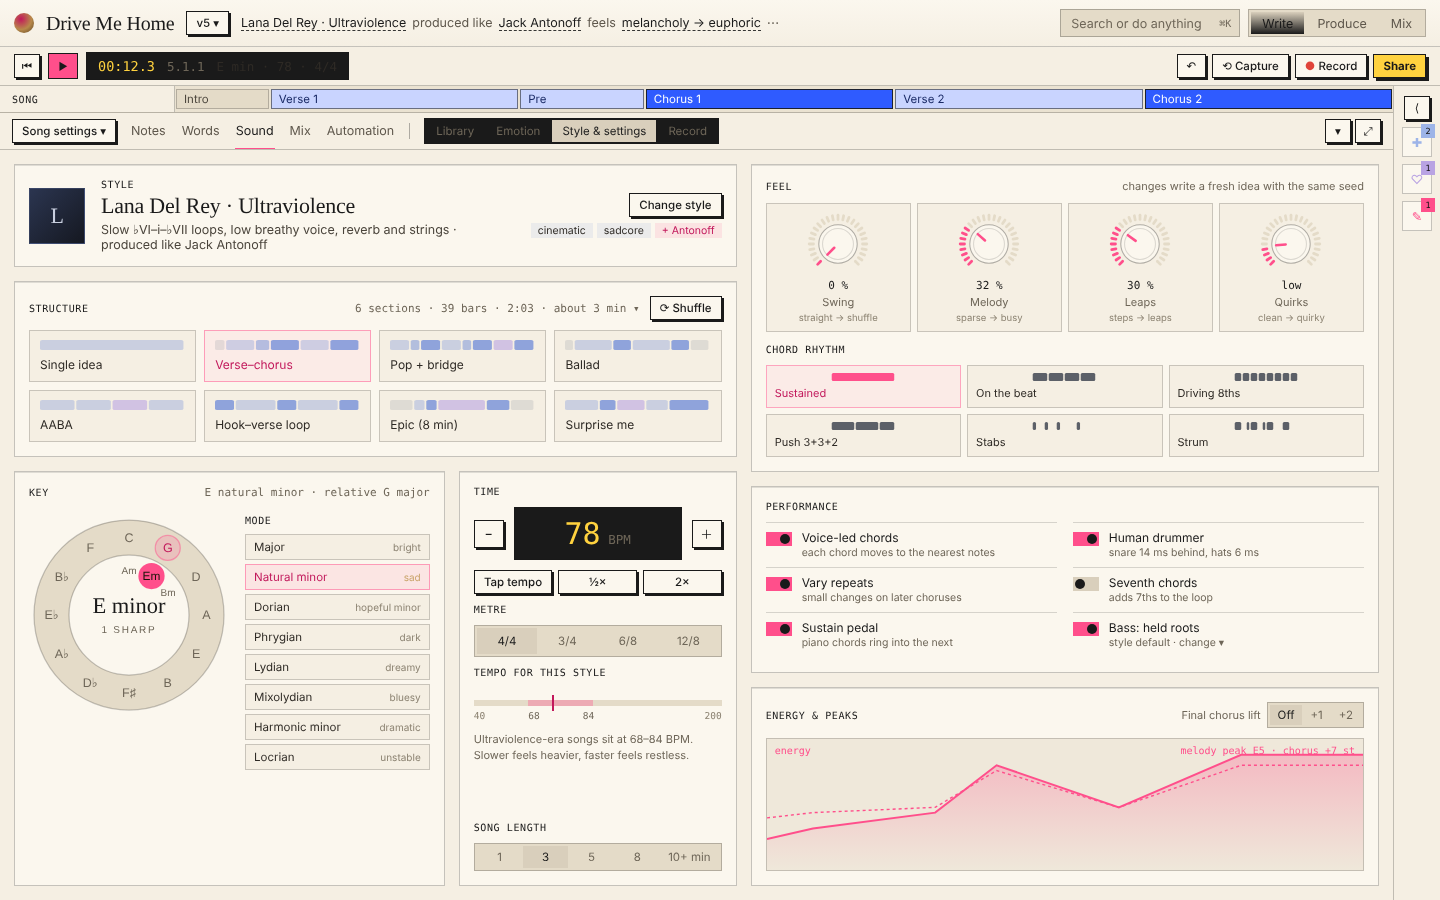
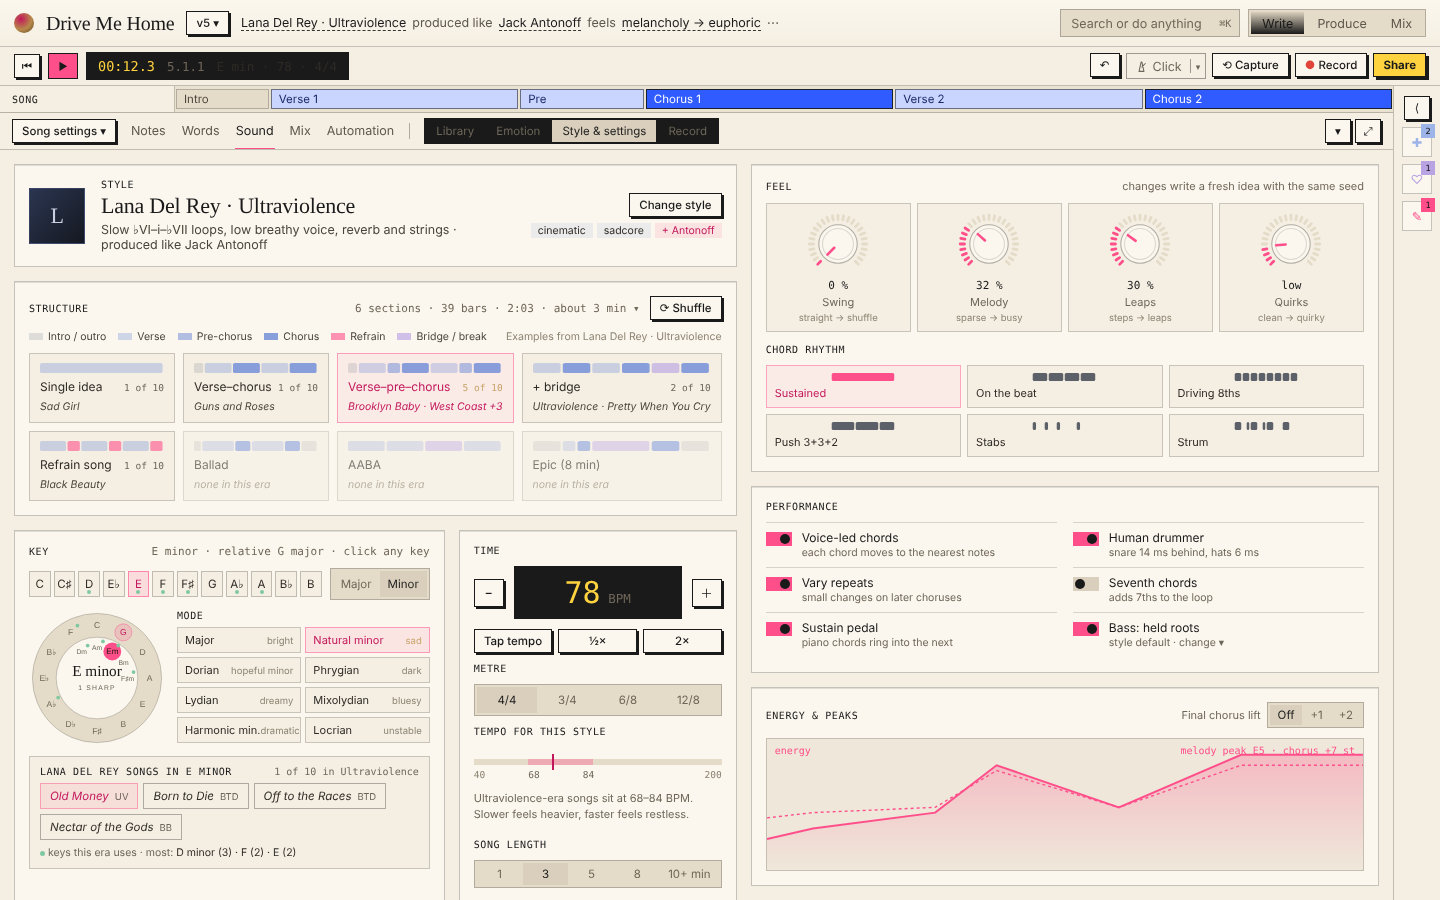
Design: key picker in Song settings (tonic row, major/minor, clickable circle) with the artist's songs in that key
Claude-Session: https://claude.ai/code/session_01Gwi5mznyCGAVwjhLcrp4R8

Changed region(s): [[0.0, 0.3733, 0.5, 0.9956], [0.75, 0.0622, 1.0, 0.0933]]

diff --git a/docs/design/panels/reference-Style.dc.html b/docs/design/panels/reference-Style.dc.html
@@ -65,13 +65,19 @@ button{cursor:pointer;white-space:nowrap}
     </div>
     <div style="display: grid; grid-template-columns: 1.55fr 1fr; gap: 14px; flex: 1; min-height: 0">
       <div style="padding: 14px; border-radius: 12px; background: linear-gradient(#121316, #0F1013); border: 1px solid rgba(255,255,255,.06); box-shadow: inset 0 1px 0 rgba(255,255,255,.03); display: flex; flex-direction: column; gap: 10px; min-width: 0">
-        <div style="display: flex; justify-content: space-between; align-items: baseline"><span class="sm">Key</span><span class="mono" style="font-size: 11px; color: #8A8F98">E natural minor · relative G major</span></div>
-        <div style="display: flex; gap: 16px; align-items: flex-start; flex: 1; padding-top: 6px">
-          <svg viewBox="0 0 160 160" width="200" height="200" style="flex-shrink: 0" aria-label="Circle of fifths, E minor selected"><circle cx="80" cy="80" r="76" fill="#0C0D10" stroke="rgba(255,255,255,.06)"></circle><circle cx="80" cy="80" r="48" fill="#121316" stroke="rgba(255,255,255,.06)"></circle><sc-for list="{{cof}}" as="k" hint-placeholder-count="12"><circle cx="{{k.x}}" cy="{{k.y}}" r="{{k.r}}" fill="{{k.bg}}" stroke="{{k.line}}"></circle><text x="{{k.x}}" y="{{k.ty}}" text-anchor="middle" font-size="{{k.fs}}" fill="{{k.ink}}" font-family="Inter Tight, sans-serif">{{k.n}}</text></sc-for><text x="80" y="78" text-anchor="middle" font-size="18" fill="#EDEBE6" font-family="Instrument Serif, serif">E minor</text><text x="80" y="94" text-anchor="middle" font-size="8" letter-spacing="1.4" fill="#6B7079" font-family="Inter Tight, sans-serif">1 SHARP</text></svg>
-          <div style="flex: 1; display: flex; flex-direction: column; gap: 8px; min-width: 0">
+        <div style="display: flex; justify-content: space-between; align-items: baseline"><span class="sm">Key</span><span class="mono" style="font-size: 11px; color: #8A8F98">E minor · relative G major · click any key</span></div>
+        <div style="display: flex; gap: 8px; align-items: center"><div style="flex: 1; display: grid; grid-template-columns: repeat(12, 1fr); gap: 3px"><sc-for list="{{tonics}}" as="t" hint-placeholder-count="12"><button style="height: 26px; padding: 0; border-radius: 6px; border: 1px solid {{t.line}}; background: {{t.bg}}; color: {{t.ink}}; font-size: 11.5px; position: relative">{{t.n}}<span style="position: absolute; left: 50%; bottom: 2px; width: 4px; height: 4px; margin-left: -2px; border-radius: 50%; background: {{t.dot}}"></span></button></sc-for></div><div style="display: flex; padding: 2px; border-radius: 8px; background: #0C0D10; border: 1px solid rgba(255,255,255,.06)"><sc-for list="{{mm}}" as="o" hint-placeholder-count="4"><button style="flex: 1; height: 26px; padding: 0 8px; border-radius: 6px; border: 0; background: {{o.bg}}; color: {{o.ink}}; font-size: 11.5px; white-space: nowrap">{{o.n}}</button></sc-for></div></div>
+        <div style="display: flex; gap: 12px; align-items: flex-start">
+          <svg viewBox="0 0 160 160" width="136" height="136" style="flex-shrink: 0" aria-label="Circle of fifths, E minor selected"><circle cx="80" cy="80" r="76" fill="#0C0D10" stroke="rgba(255,255,255,.06)"></circle><circle cx="80" cy="80" r="48" fill="#121316" stroke="rgba(255,255,255,.06)"></circle><sc-for list="{{cof}}" as="k" hint-placeholder-count="12"><circle cx="{{k.x}}" cy="{{k.y}}" r="{{k.r}}" fill="{{k.bg}}" stroke="{{k.line}}"></circle><circle cx="{{k.dx}}" cy="{{k.dy}}" r="{{k.dr}}" fill="#7FC9A2"></circle><text x="{{k.x}}" y="{{k.ty}}" text-anchor="middle" font-size="{{k.fs}}" fill="{{k.ink}}" font-family="Inter Tight, sans-serif">{{k.n}}</text></sc-for><text x="80" y="78" text-anchor="middle" font-size="18" fill="#EDEBE6" font-family="Instrument Serif, serif">E minor</text><text x="80" y="94" text-anchor="middle" font-size="8" letter-spacing="1.4" fill="#6B7079" font-family="Inter Tight, sans-serif">1 SHARP</text></svg>
+          <div style="flex: 1; display: flex; flex-direction: column; gap: 6px; min-width: 0">
             <span class="sm">Mode</span>
-            <div style="display: grid; grid-template-columns: 1fr; gap: 4px"><sc-for list="{{modes}}" as="m" hint-placeholder-count="8"><button style="height: 26px; padding: 0 8px; border-radius: 6px; border: 1px solid {{m.line}}; background: {{m.bg}}; color: {{m.ink}}; font-size: 11.5px; text-align: left; display: flex; justify-content: space-between; align-items: center">{{m.n}}<span style="color: {{m.fc}}; font-size: 10px">{{m.f}}</span></button></sc-for></div>
+            <div style="display: grid; grid-template-columns: 1fr 1fr; gap: 4px"><sc-for list="{{modes}}" as="m" hint-placeholder-count="8"><button style="height: 26px; padding: 0 7px; border-radius: 6px; border: 1px solid {{m.line}}; background: {{m.bg}}; color: {{m.ink}}; font-size: 11px; text-align: left; display: flex; justify-content: space-between; align-items: center; white-space: nowrap; overflow: hidden">{{m.n}}<span style="color: {{m.fc}}; font-size: 9.5px">{{m.f}}</span></button></sc-for></div>
           </div>
+        </div>
+        <div style="padding: 9px 10px; border-radius: 9px; background: #0E0F12; border: 1px solid rgba(255,255,255,.05); display: flex; flex-direction: column; gap: 6px">
+          <span style="display: flex; justify-content: space-between; align-items: baseline"><span class="sm">Lana Del Rey songs in E minor</span><span class="mono" style="font-size: 10px; color: #8A8F98">1 of 10 in Ultraviolence</span></span>
+          <div style="display: flex; flex-wrap: wrap; gap: 5px"><sc-for list="{{inKey}}" as="k" hint-placeholder-count="4"><span style="display: flex; align-items: center; gap: 6px; height: 24px; padding: 0 9px; border-radius: 999px; background: {{k.bg}}; border: 1px solid {{k.line}}; font-size: 11.5px; color: {{k.ink}}"><span style="font-style: italic">{{k.n}}</span><span style="font-size: 9.5px; color: #6B7079">{{k.e}}</span></span></sc-for></div>
+          <span style="color: #6B7079; font-size: 10.5px"><span style="display: inline-block; width: 5px; height: 5px; border-radius: 50%; background: #7FC9A2; vertical-align: middle"></span> keys this era uses · most: <span style="color: #C9C5BC">D minor (3) · F (2) · E (2)</span></span>
         </div>
       </div>
       <div style="padding: 14px; border-radius: 12px; background: linear-gradient(#121316, #0F1013); border: 1px solid rgba(255,255,255,.06); box-shadow: inset 0 1px 0 rgba(255,255,255,.03); display: flex; flex-direction: column; gap: 10px; min-width: 0">
@@ -82,7 +88,7 @@ button{cursor:pointer;white-space:nowrap}
         <span class="sm">Tempo for this style</span>
         <div style="position: relative; height: 34px"><span style="position: absolute; left: 0; right: 0; top: 12px; height: 6px; border-radius: 3px; background: #0C0D10"></span><span style="position: absolute; left: 22%; width: 26%; top: 12px; height: 6px; border-radius: 3px; background: rgba(217,179,122,.35)"></span><span style="position: absolute; left: calc(32% - 1px); top: 7px; width: 2px; height: 16px; background: #F1D6A6"></span><span class="mono" style="position: absolute; left: 22%; top: 22px; font-size: 9.5px; color: #8A8F98">68</span><span class="mono" style="position: absolute; left: 44%; top: 22px; font-size: 9.5px; color: #8A8F98">84</span><span class="mono" style="position: absolute; left: 0; top: 22px; font-size: 9.5px; color: #555A62">40</span><span class="mono" style="position: absolute; right: 0; top: 22px; font-size: 9.5px; color: #555A62">200</span></div>
         <span style="color: #6B7079; font-size: 11px; line-height: 1.45">Ultraviolence-era songs sit at 68–84 BPM. Slower feels heavier, faster feels restless.</span>
-        <span class="sm" style="margin-top: auto">Song length</span><div style="display: flex; padding: 2px; border-radius: 8px; background: #0C0D10; border: 1px solid rgba(255,255,255,.06)"><sc-for list="{{lens}}" as="o" hint-placeholder-count="4"><button style="flex: 1; height: 22px; padding: 0 8px; border-radius: 6px; border: 0; background: {{o.bg}}; color: {{o.ink}}; font-size: 11.5px; white-space: nowrap">{{o.n}}</button></sc-for></div>
+        <span class="sm" style="margin-top: 6px">Song length</span><div style="display: flex; padding: 2px; border-radius: 8px; background: #0C0D10; border: 1px solid rgba(255,255,255,.06)"><sc-for list="{{lens}}" as="o" hint-placeholder-count="4"><button style="flex: 1; height: 22px; padding: 0 8px; border-radius: 6px; border: 0; background: {{o.bg}}; color: {{o.ink}}; font-size: 11.5px; white-space: nowrap">{{o.n}}</button></sc-for></div>
       </div>
     </div>
   </div>
@@ -138,8 +144,11 @@ function segOf(list, on) { return list.map(function (n) { var o = n === on; retu
     var forms = [['Single idea', [['v', 8]], 0, ['Sad Girl']], ['Verse–chorus', [['e', 3], ['v', 8], ['c', 8], ['v', 8], ['c', 8]], 0, ['Guns and Roses']], ['Verse–pre–chorus', [['e', 3], ['v', 8], ['p', 4], ['c', 8], ['v', 8], ['p', 4], ['c', 8]], 1, ['Brooklyn Baby', 'West Coast', 'Shades of Cool', 'Cruel World', 'Old Money']], ['+ bridge', [['v', 8], ['c', 8], ['v', 8], ['c', 8], ['b', 8], ['c', 8]], 0, ['Ultraviolence', 'Pretty When You Cry']], ['Refrain song', [['v', 8], ['r', 4], ['v', 8], ['r', 4], ['v', 8], ['r', 4]], 0, ['Black Beauty']], ['Ballad', [['e', 4], ['v', 16], ['c', 8], ['v', 16], ['c', 8], ['e', 8]], 0, []], ['AABA', [['v', 8], ['v', 8], ['b', 8], ['v', 8]], 0, []], ['Epic (8 min)', [['e', 16], ['v', 8], ['c', 8], ['b', 32], ['c', 16], ['e', 16]], 0, []]].map(function (f) { var on = !!f[2], n = f[3].length; return { n: f[0], blocks: blocks(f[1]), songs: n ? f[3].slice(0, 2).join(' · ') + (n > 2 ? ' +' + (n - 2) : '') : 'none in this era', count: n ? n + ' of 10' : '', cc: on ? '#C9A46A' : '#6B7079', ex: n ? (on ? '#F1D6A6' : '#9BA0A8') : '#555A62', op: n ? 1 : .6, bg: on ? 'rgba(217,179,122,.07)' : '#0E0F12', line: on ? 'rgba(217,179,122,.5)' : 'rgba(255,255,255,.05)', ink: on ? '#F1D6A6' : '#C9C5BC' }; });
     var legend = [['Intro / outro', 'e'], ['Verse', 'v'], ['Pre-chorus', 'p'], ['Chorus', 'c'], ['Refrain', 'r'], ['Bridge / break', 'b']].map(function (l) { return { n: l[0], c: SC[l[1]] }; });
     var circle = ['C', 'G', 'D', 'A', 'E', 'B', 'F♯', 'D♭', 'A♭', 'E♭', 'B♭', 'F'], inner = ['Am', 'Em', 'Bm', 'F♯m', 'C♯m', 'G♯m', 'D♯m', 'B♭m', 'Fm', 'Cm', 'Gm', 'Dm'];
-    var cof = []; circle.forEach(function (n, i) { var a = (i * 30 - 90) * Math.PI / 180; cof.push({ n: n, x: (80 + 62 * Math.cos(a)).toFixed(1), y: (80 + 62 * Math.sin(a)).toFixed(1), ty: (83.5 + 62 * Math.sin(a)).toFixed(1), r: 10, fs: 10, bg: n === 'G' ? 'rgba(217,179,122,.18)' : 'transparent', line: n === 'G' ? 'rgba(217,179,122,.5)' : 'transparent', ink: n === 'G' ? '#F1D6A6' : '#8A8F98' }); if (i <= 2) cof.push({ n: inner[i], x: (80 + 36 * Math.cos(a)).toFixed(1), y: (80 + 36 * Math.sin(a)).toFixed(1), ty: (83 + 36 * Math.sin(a)).toFixed(1), r: i === 1 ? 10.5 : 0, fs: i === 1 ? 9.5 : 8, bg: i === 1 ? '#D9B37A' : 'transparent', line: 'transparent', ink: i === 1 ? '#1B1408' : '#8A8F98' }); });
-    var modes = [['Major', 'bright'], ['Natural minor', 'sad', 1], ['Dorian', 'hopeful minor'], ['Phrygian', 'dark'], ['Lydian', 'dreamy'], ['Mixolydian', 'bluesy'], ['Harmonic minor', 'dramatic'], ['Locrian', 'unstable']].map(function (m) { var on = !!m[2]; return { n: m[0], f: m[1], bg: on ? 'rgba(217,179,122,.1)' : '#0E0F12', line: on ? 'rgba(217,179,122,.5)' : 'rgba(255,255,255,.05)', ink: on ? '#F1D6A6' : '#C9C5BC', fc: on ? '#C9A46A' : '#555A62' }; });
+    var cof = []; circle.forEach(function (n, i) { var a = (i * 30 - 90) * Math.PI / 180; var useK = { 'F': 1, 'A♭': 1 }; cof.push({ dx: (80 + 62 * Math.cos(a) + 8).toFixed(1), dy: (80 + 62 * Math.sin(a) - 8).toFixed(1), dr: useK[n] ? 2.2 : 0, n: n, x: (80 + 62 * Math.cos(a)).toFixed(1), y: (80 + 62 * Math.sin(a)).toFixed(1), ty: (83.5 + 62 * Math.sin(a)).toFixed(1), r: 10, fs: 10, bg: n === 'G' ? 'rgba(217,179,122,.18)' : 'transparent', line: n === 'G' ? 'rgba(217,179,122,.5)' : 'transparent', ink: n === 'G' ? '#F1D6A6' : '#8A8F98' }); var useM = { 'Dm': 1, 'Em': 1, 'Am': 1, 'F♯m': 1 }; if (i <= 3 || useM[inner[i]]) cof.push({ dx: (80 + 36 * Math.cos(a) + 7).toFixed(1), dy: (80 + 36 * Math.sin(a) - 7).toFixed(1), dr: useM[inner[i]] ? 2.2 : 0, n: inner[i], x: (80 + 36 * Math.cos(a)).toFixed(1), y: (80 + 36 * Math.sin(a)).toFixed(1), ty: (83 + 36 * Math.sin(a)).toFixed(1), r: i === 1 ? 10.5 : 0, fs: i === 1 ? 9.5 : 8, bg: i === 1 ? '#D9B37A' : 'transparent', line: 'transparent', ink: i === 1 ? '#1B1408' : '#8A8F98' }); });
+    var tonics = ['C', 'C♯', 'D', 'E♭', 'E', 'F', 'F♯', 'G', 'A♭', 'A', 'B♭', 'B'].map(function (n) { var on = n === 'E', used = { 'D': 1, 'F': 1, 'E': 1, 'A': 1, 'A♭': 1, 'F♯': 1 }[n]; return { n: n, bg: on ? 'rgba(217,179,122,.16)' : '#0E0F12', line: on ? 'rgba(217,179,122,.6)' : 'rgba(255,255,255,.06)', ink: on ? '#F1D6A6' : '#C9C5BC', dot: used ? '#7FC9A2' : 'transparent' }; });
+    var mm = segOf(['Major', 'Minor'], 'Minor');
+    var inKey = [['Old Money', 'UV', 1], ['Born to Die', 'BTD', 0], ['Off to the Races', 'BTD', 0], ['Nectar of the Gods', 'BB', 0]].map(function (k) { var on = !!k[2]; return { n: k[0], e: k[1], bg: on ? 'rgba(217,179,122,.1)' : 'transparent', line: on ? 'rgba(217,179,122,.45)' : 'rgba(255,255,255,.08)', ink: on ? '#F1D6A6' : '#C9C5BC' }; });
+    var modes = [['Major', 'bright'], ['Natural minor', 'sad', 1], ['Dorian', 'hopeful minor'], ['Phrygian', 'dark'], ['Lydian', 'dreamy'], ['Mixolydian', 'bluesy'], ['Harmonic min.', 'dramatic'], ['Locrian', 'unstable']].map(function (m) { var on = !!m[2]; return { n: m[0], f: m[1], bg: on ? 'rgba(217,179,122,.1)' : '#0E0F12', line: on ? 'rgba(217,179,122,.5)' : 'rgba(255,255,255,.05)', ink: on ? '#F1D6A6' : '#C9C5BC', fc: on ? '#C9A46A' : '#555A62' }; });
     var meters = segOf(['4/4', '3/4', '6/8', '12/8'], '4/4');
     var knobs = [['Swing', 0, 'straight → shuffle', '0 %'], ['Melody', .32, 'sparse → busy', '32 %'], ['Leaps', .3, 'steps → leaps', '30 %'], ['Quirks', .15, 'clean → quirky', 'low']].map(function (k) { var o = knob(k[1], B, 52); o.n = k[0]; o.r = k[2]; o.v = k[3]; return o; });
     function hits(list) { return list.map(function (h) { return { x: h[0] * 8, w: h[1] * 8 - 1.5 }; }); }
@@ -148,7 +157,7 @@ function segOf(list, on) { return list.map(function (n) { var o = n === on; retu
     var lift = segOf(['Off', '+1', '+2'], 'Off'); var lens = segOf(['1', '3', '5', '8', '10+ min'], '3');
     var E = [[0, .2], [3, .3], [11, .45], [15, .9], [23, .5], [31, 1], [39, 1]], P = [[0, .4], [3, .45], [11, .5], [15, .85], [23, .5], [31, .9], [39, .9]];
     function L(a) { return 'M' + a.map(function (p) { return (p[0] / 39 * 1000).toFixed(0) + ' ' + (92 - p[1] * 80).toFixed(1); }).join(' L'); }
-    return { clickBtn: clickBtn, legend: legend, secs: secs, tabs: tabsOf('Sound'), subs: subsOf(['Library', 'Emotion', 'Style & settings', 'Record'], 'Style & settings'), railI: railI, forms: forms, cof: cof, modes: modes, meters: meters, knobs: knobs, rhythms: rhythms, perf: perf, lift: lift, lens: lens, en: L(E), pk: L(P) };
+    return { clickBtn: clickBtn, legend: legend, secs: secs, tabs: tabsOf('Sound'), subs: subsOf(['Library', 'Emotion', 'Style & settings', 'Record'], 'Style & settings'), railI: railI, forms: forms, cof: cof, modes: modes, meters: meters, knobs: knobs, rhythms: rhythms, perf: perf, lift: lift, lens: lens, tonics: tonics, mm: mm, inKey: inKey, en: L(E), pk: L(P) };
   }
 }
 </script>

diff --git a/docs/design/panels/README.md b/docs/design/panels/README.md
@@ -25,9 +25,20 @@ Two columns of cards, no page scroll at 1440×900:
     (the real section order, e.g. `"form": "I V P C V P C B C O"`, with a source). Use `form` when present. `check_style_data.py` checks the
     letters. Ballad, AABA and Epic need `form` or a length to be detected.
   - Example counts follow the selected style tags (a blend shows songs from each, marked by artist).
-- **Key:** a **circle of fifths** (majors outside, the relative minors near the key inside, the current key filled brass, its relative major ringed)
-  with "E minor · 1 sharp" in the middle. Beside it, the **mode** list, each with its feeling (bright, sad, hopeful minor, dark, dreamy, bluesy,
-  dramatic, unstable).
+- **Key** (change it here as well as in the recipe; both are the same setting and one undo step):
+  - A row of 12 tonic buttons (C … B) plus a **Major / Minor** switch for quick changes.
+  - The **circle of fifths** is clickable too: majors outside, relative minors inside, the current key filled brass, and its relative major ringed.
+  - Mode buttons in two columns, each with its feeling.
+  - **Green dots** on tonic buttons and circle keys mark keys this era's songs use.
+  - **"Lana Del Rey songs in E minor"**: chips of the artist's songs in the chosen key, the current era's first and highlighted ("Old Money · UV"),
+    then other eras (Born to Die, Off to the Races, Nectar of the Gods), with "1 of 10 in Ultraviolence" and the era's most-used keys
+    ("D minor (3) · F (2) · E (2)").
+  - Hovering a chip shows the song's key, tempo and progression from progressions.json. Clicking it offers "Use this key" or "Hear its chords in
+    your sound" (a sketch, never the recording).
+  - Data comes from `progressions.json` `key` per song. Parse "D minor / F major" as both, and modal keys ("E mixolydian") as their tonic,
+    showing the mode. Blended styles show songs from each tag's artist.
+  - **Changing the key:** transposes the song (notes, chords and lyrics stay, everything else follows). It asks once whether to move the melody
+    up or down (nearest by default), and warns if the melody leaves the comfortable range set in Pitch.
 - **Time:** a big tempo readout with − / ＋, Tap tempo, ½×, 2×; metre as a segmented control; **tempo for this style** as a range bar with the
   current tempo marked and one line on what slower/faster feels like; and **song length** (1 · 3 · 5 · 8 · 10+ min, from song-shapes.json).
 - **Feel:** four LED-ring knobs: Swing, Melody (sparse → busy), Leaps (steps → leaps), Quirks (clean → quirky). Each shows a value and its range words.
